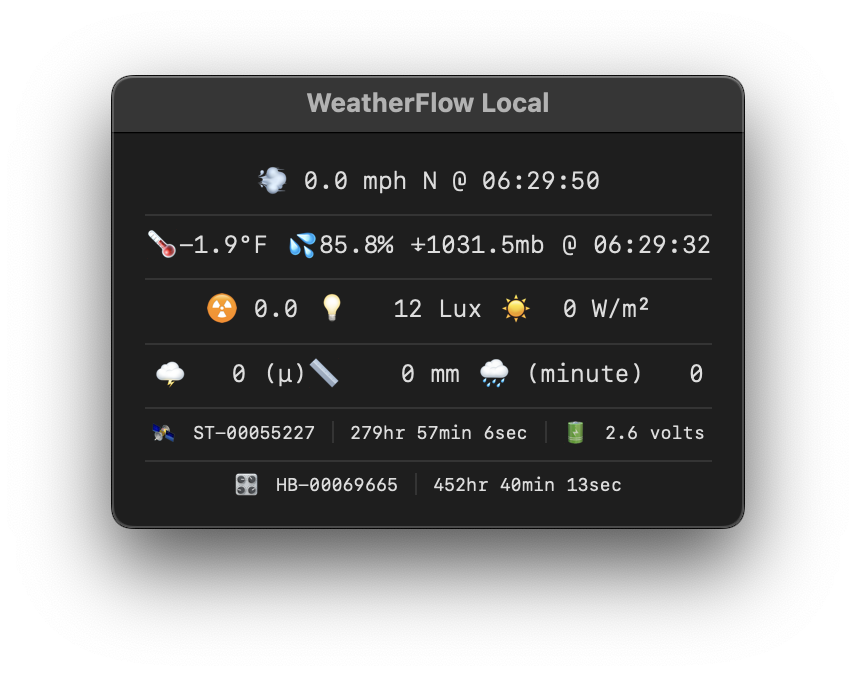
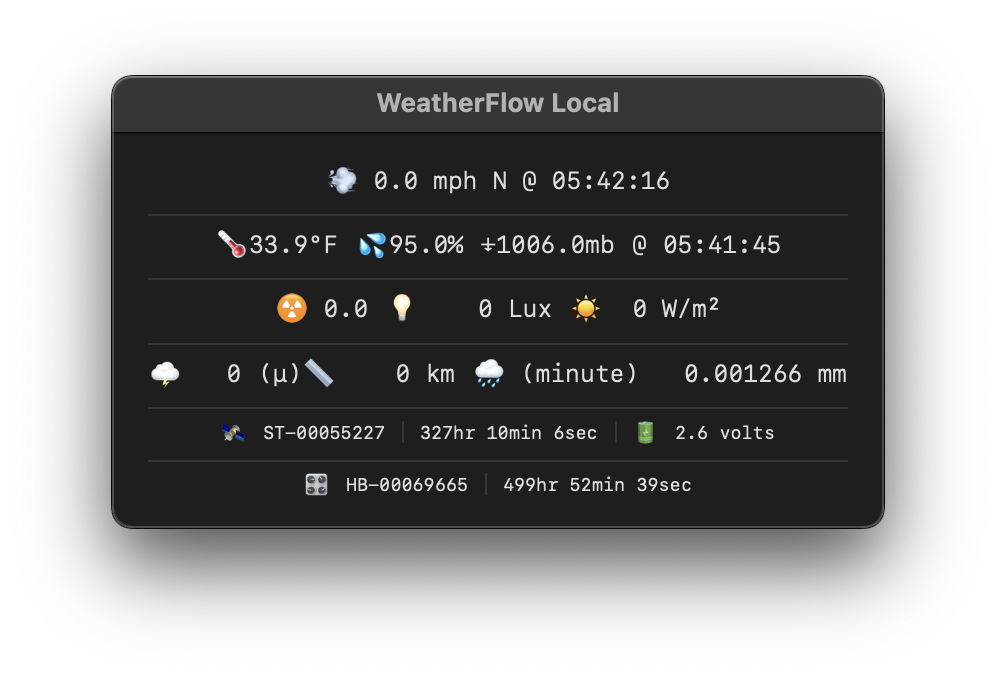
Fixed rain format string and lightning distance units; added rain units

diff --git a/WeatherFlow Local/TempestTypes.swift b/WeatherFlow Local/TempestTypes.swift
@@ -171,11 +171,11 @@ public struct StationObservation {
   }
   
   var strikeDistanceString: String {
-    String(format: "(μ)📏 %4.1d mm", lightningStrikeAvgDistance)
+    String(format: "(μ)📏 %4.1d km", lightningStrikeAvgDistance)
   }
 
   var rainString: String {
-    String(format: "🌧 (minute) %3.1d", rain)
+    String(format: "🌧 (minute) %10.6f mm", rain)
   }
   
   var uvString: String {

diff --git a/WeatherFlow Local/Model.swift b/WeatherFlow Local/Model.swift
@@ -104,7 +104,7 @@ class AppModel: NSObject, ObservableObject, GCDAsyncUdpSocketDelegate {
         }
         
       } else if (result!.type.stringValue == "obs_st") {
-        
+                
         DispatchQueue.main.async {
           
           self.stationObservation = StationObservation(

diff --git a/WeatherFlow Local/WeatherFlow_LocalApp.swift b/WeatherFlow Local/WeatherFlow_LocalApp.swift
@@ -9,7 +9,7 @@ struct WeatherFlow_LocalApp: App {
       WeatherView()
         .navigationTitle("WeatherFlow Local")
         .frame(
-          minWidth: 316,
+          minWidth: 386,
           minHeight: 197,
           alignment: .center
         )
